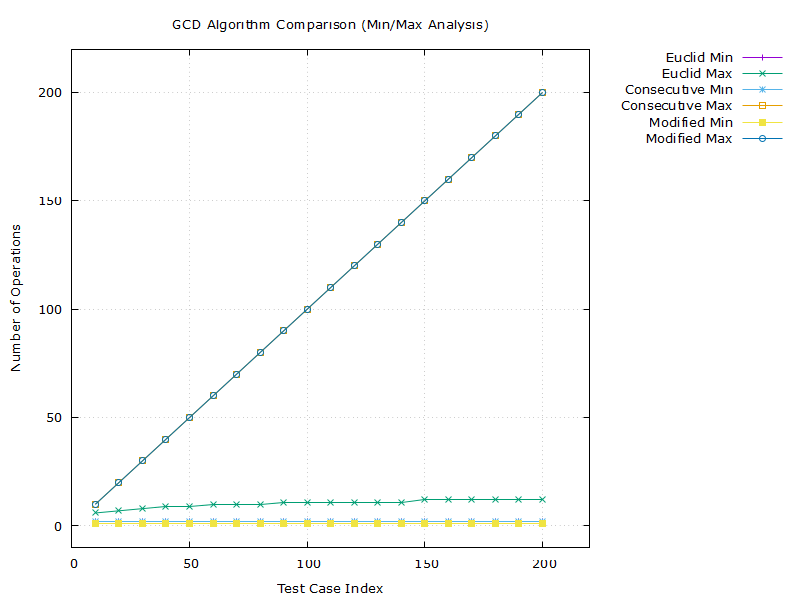
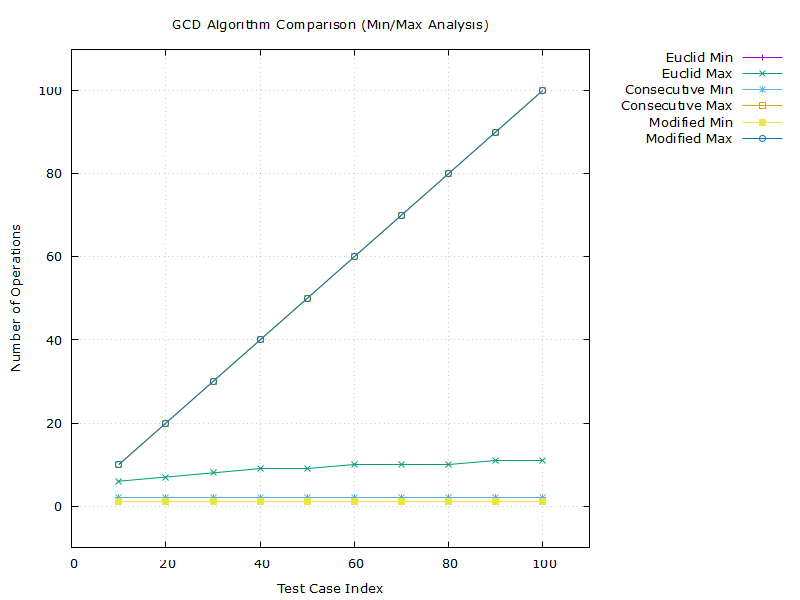
Final configure done for gcd, should check the output tho.

diff --git a/1.GCD/gcd.cpp b/1.GCD/gcd.cpp
@@ -4,7 +4,7 @@
 using namespace std;
 
 #define MIN 10
-#define MAX 200
+#define MAX 100
 
 pair<int, int> gcdEuclid(int m, int n);
 pair<int, int> gcdConsecutiveIntegerChecking(int m, int n);
